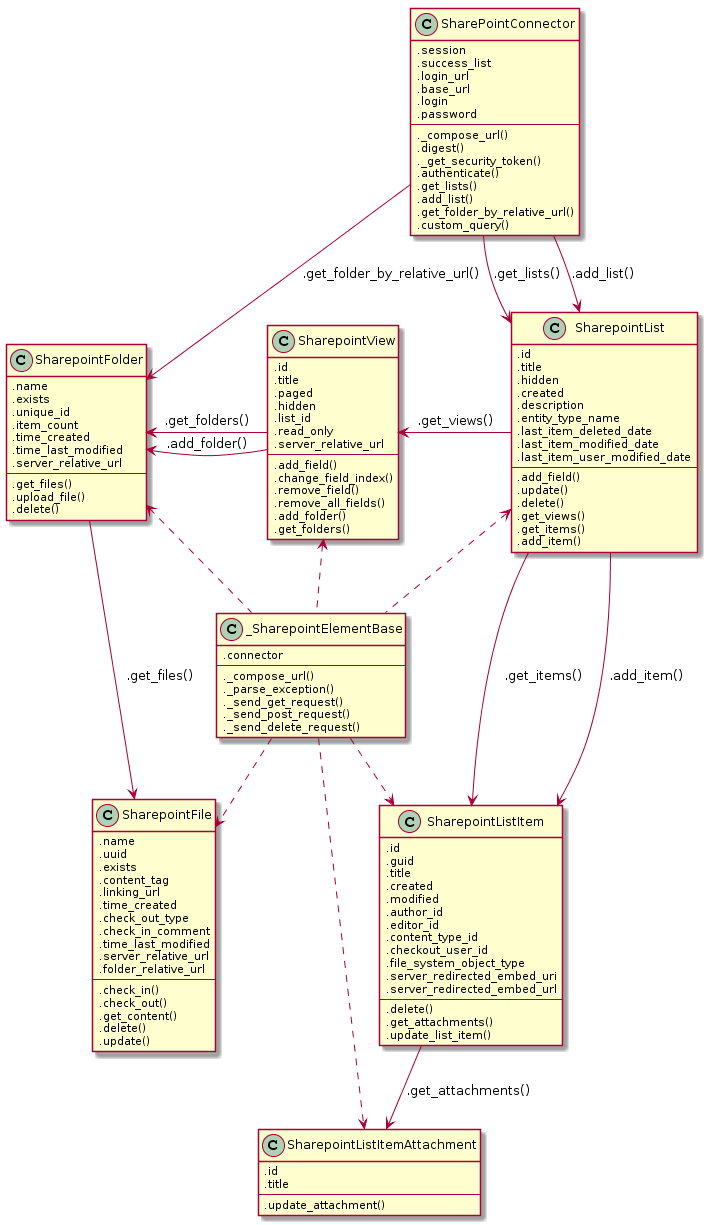
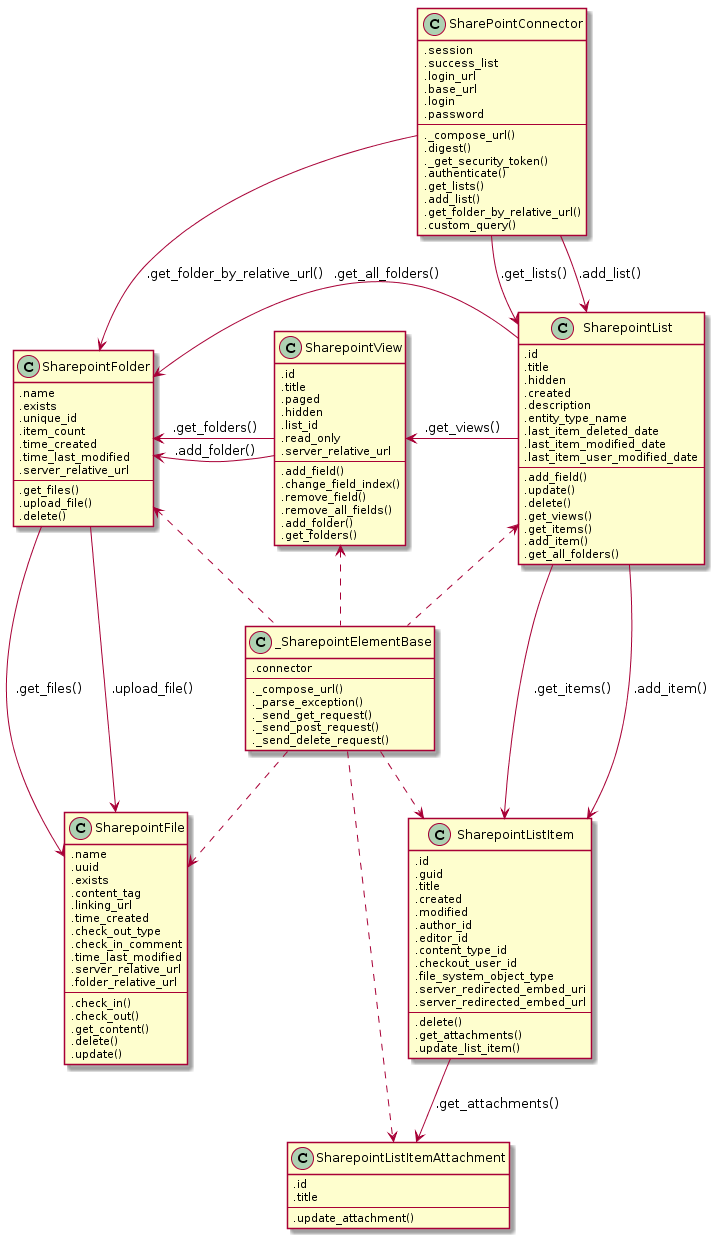
Added .get_all_folders().

diff --git a/o365_sharepoint_connector/o365_sharepoint_connector.py b/o365_sharepoint_connector/o365_sharepoint_connector.py
@@ -409,7 +409,7 @@ class SharepointFolder(_SharepointElementBase):
         return sdir
 
     def __repr__(self):
-        return "SharepointDir(%s)" % self.name
+        return "SharepointDir(%s)" % self.server_relative_url
 
     def get_files(self):
         """
@@ -1019,6 +1019,29 @@ class SharepointList(_SharepointElementBase):
             x["Title"]: SharepointView.from_dict(self._connector, self.id, x)
             for x in get.json()["d"]["results"]
         }
+
+    def get_all_folders(self):
+        """
+        Return list of folders in all views.
+
+        Returns:
+            list: List of all folders.
+        """
+
+        visible_views = [
+            x for x in self.get_views().values()
+            if not x.hidden
+        ]
+
+        if not visible_views:
+            return []
+
+        all_folders = {}
+        for view in visible_views:
+            for folder in view.get_folders().values():
+                all_folders[folder.server_relative_url] = folder
+
+        return list(all_folders.values())
 
     def get_items(self):
         """
